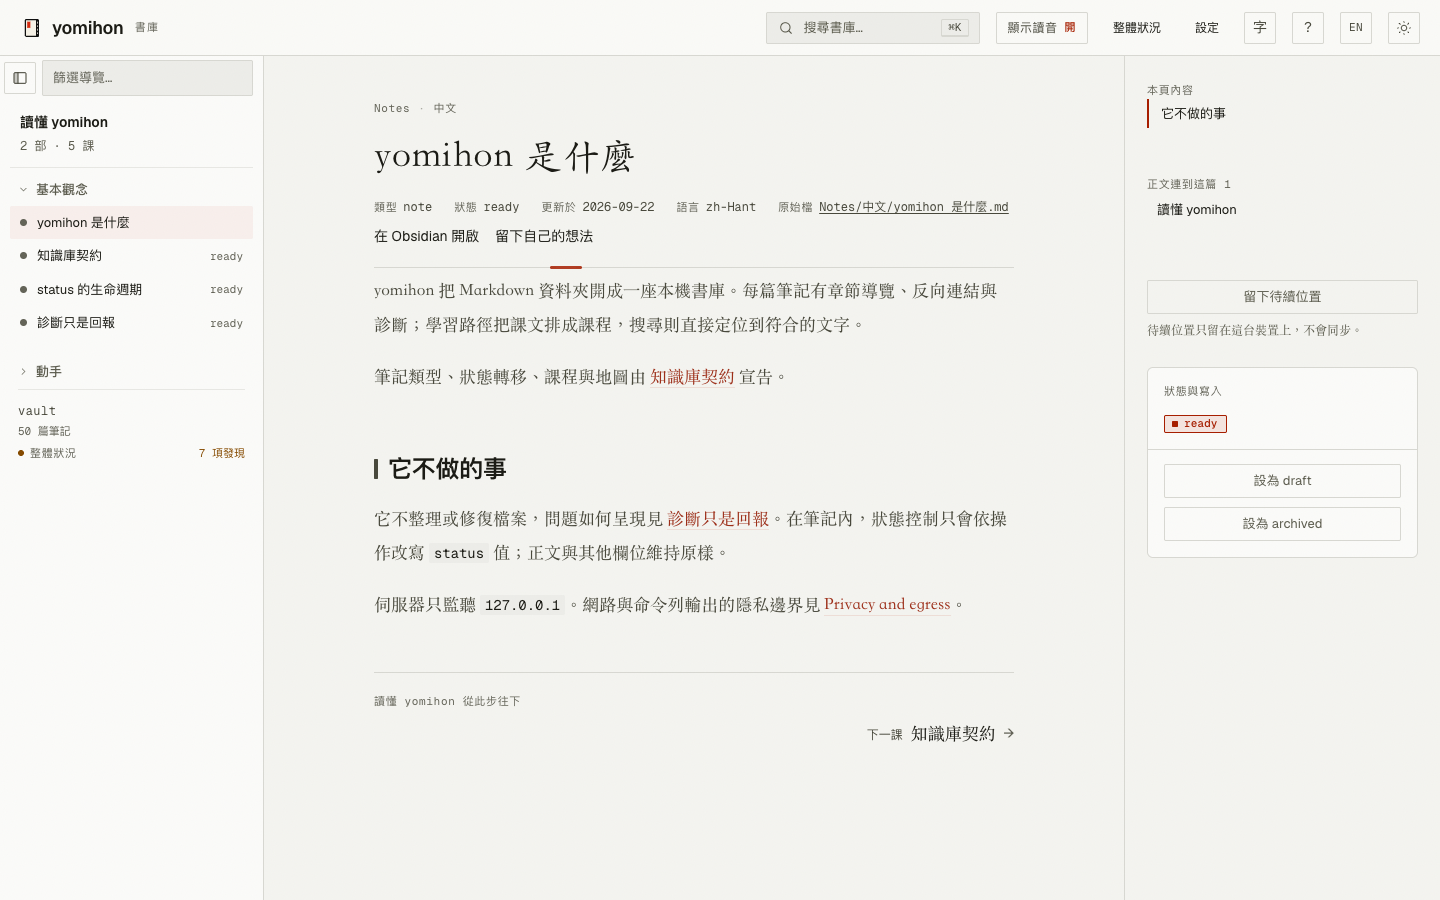
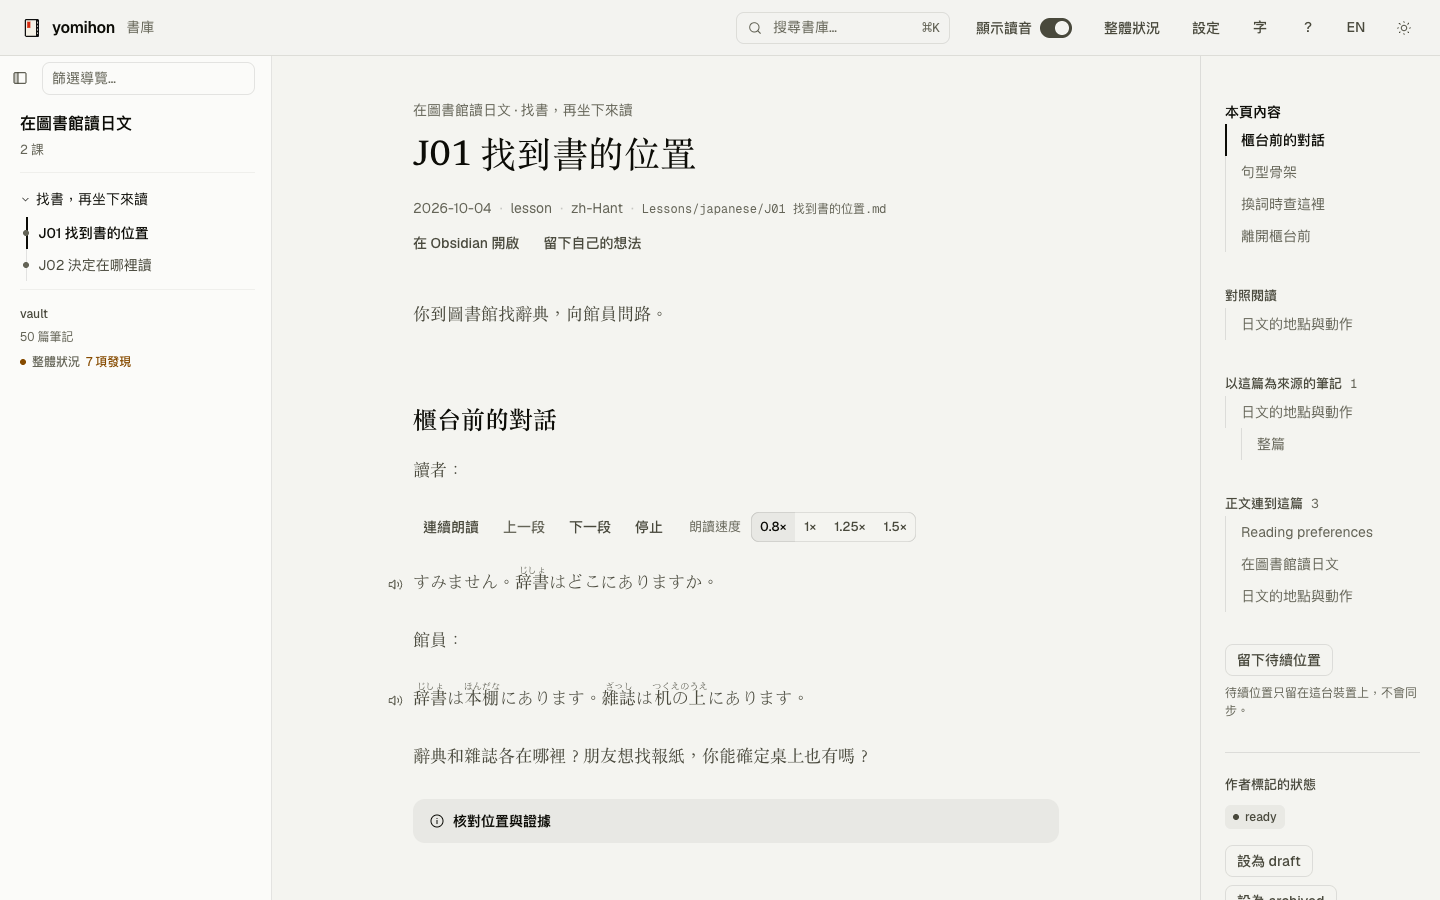
docs: bring both readmes and their pictures up to date with the redesign
Both READMEs now open with what the reader gets and name only capabilities
that exist on main: reading, courses with side branches, leave-off marks,
settings, search in three languages, reports and the health page. Claims the
code only supports in a narrower form were cut or narrowed (read-aloud is
Japanese lessons only, check needs a contract, search landing is dropped).

The two pictures are retaken with make screenshots and now show a lesson
inside a study path, so one screen carries the course rail, the running head
and the reading column. The Makefile target points at those two lessons; the
script and its language assertion are unchanged.

diff --git a/README.md b/README.md
@@ -6,37 +6,25 @@ English | [繁體中文](README.zh-TW.md)
 [![Go](https://img.shields.io/github/go-mod/go-version/koopa0/yomihon?style=flat)](go.mod)
 [![License: MIT](https://img.shields.io/badge/license-MIT-blue?style=flat)](LICENSE)
 
-**Turn the Markdown you have already organised into a book worth reading.**
+**yomihon turns the Markdown you have already organised into something good to read.**
 
-[![yomihon's reading page: the course and the current lesson on the left, the article in the centre, and on the right its sections and the notes that cite it](.github/media/reading-en.png)](.github/media/reading-en.png)
+[![A lesson in a study path: the course on the left with the current lesson marked, the lesson in the centre, and on the right the notes that cite it and a button to leave off here](.github/media/reading-en.png)](.github/media/reading-en.png)
 
-yomihon reads a folder of Markdown as one book. A study path is a course, with
-chapters and the lesson you are on; every note has its sections and the notes
-that cite it beside the text; whatever is broken is said where it is. It runs
-on your machine and changes none of your words.
+A study path is a course, with its parts and the lesson you are on. Search, backlinks and reports come with it. yomihon runs on your machine, makes no network requests and never edits your text.
 
 ## Try it
 
-[yomihon.koopa0.dev](https://yomihon.koopa0.dev) is this reader over `examples/vault`,
-the sample notes in this repository. Those notes are shared: a status you move
-is the one the next reader finds, and every hour they are restored from this
-repository. Your own vault never leaves your machine; that is what the install
-below is for.
+[yomihon.koopa0.dev](https://yomihon.koopa0.dev) runs the [example library](examples/README.md) from this repository. Visitors share one copy of the notes. It is restored every hour.
 
 ## Install
 
-[Download a binary](https://github.com/koopa0/yomihon/releases/latest) from the
-latest release, or, with Go 1.27 or newer:
+[Download a binary](https://github.com/koopa0/yomihon/releases/latest) from the latest release, or install with Go 1.27 or newer:
 
 ```sh
 go install github.com/koopa0/yomihon/cmd/yomihon@latest
 ```
 
-Reading works on macOS, Linux and Windows. Changing a note's status works on
-macOS and Linux; Windows refuses it.
-
-The example vault comes with the source, not the binary: take it from the
-release's source archive, or clone this repository.
+yomihon runs on macOS, Linux and Windows. The example library comes with the source, not the binary. Take it from the release's source archive or clone this repository.
 
 ## Use
 
@@ -44,46 +32,22 @@ release's source archive, or clone this repository.
 yomihon ~/notes
 ```
 
-Then open <http://127.0.0.1:9610>. Any folder works as it is;
-`yomihon examples/vault` opens an example vault with a contract, and shows what
-a contract adds. An agent that writes notes for a vault yomihon reads has a
-skill to read first: [`skills/`](skills/).
+Then open <http://127.0.0.1:9610>. yomihon reads any folder of Markdown as it is. Study paths, maps and `yomihon check` need a contract, `System/schemas/vault-schema.toml`. `yomihon examples/vault` opens a library that has one to copy. If an agent writes your notes, point it at [`skills/`](skills/) first.
 
 ## What it does
 
-- **Read.** Wikilinks, callouts, footnotes, tables, Mermaid, code and ruby
-  render as written. The page is set for long-form reading, Chinese and
-  Japanese first, with a light and a dark desk and three text sizes.
-- **Learn.** A study path is a course: chapter counts, previous and next, and
-  the lesson you are on. Furigana switches on and off; a passage marked for
-  reading aloud is spoken in its own language. The example vault carries
-  [a Go concurrency course in Traditional Chinese](examples/vault/Notes/Books/Go%20並行入門.md),
-  [two Japanese dialogue lessons](examples/vault/Notes/Books/在圖書館讀日文.md), and an
-  [English authoring companion](examples/vault/Notes/Reading%20yomihon.md).
-- **Find.** Full-text search with folder filters; backlinks and the note's own
-  sections stay beside the text. A result opens the note at the words it
-  found, not at the top.
-- **Check.** A health page lists links with no target, notes nothing cites, and
-  one name two files answer to; each note carries its own diagnostics; on the
-  command line it is `yomihon check`. It reports and repairs nothing.
-- **Reports.** Briefings kept under `System/reports/daily-briefing/` open in
-  the same room, sandboxed.
-- **Two languages.** The interface speaks English or Traditional Chinese; every
-  note keeps the language it was written in.
-- **Yours.** It binds to `127.0.0.1` only, makes no network call, and never
-  edits your prose. [What it keeps](docs/privacy/data-inventory.md), and
-  [what it does and does not defend](docs/security/threat-model.md).
+- **Read.** Wikilinks, callouts, footnotes, tables, Mermaid diagrams, code and ruby render as written. Settings offer light, dark or the system's appearance, three text sizes, and serif, sans serif or Kaiti type. "Leave off here" keeps your place on this device. The home page links back to it.
+- **Learn.** A study path is a course: parts, the lesson you are on, the lessons before and after it, and optional side branches. Furigana can be hidden. A Japanese passage the author marks in a lesson can be read aloud. The example library has [a Go concurrency course](examples/vault/Notes/Books/Go%20並行入門.md) and [two Japanese dialogue lessons](examples/vault/Notes/Books/在圖書館讀日文.md).
+- **Find.** Search works in English, Chinese and Japanese. A note shows its sections and the notes that cite it beside the text. A map lists the notes under one subject.
+- **Reports.** Daily briefings (HTML) and written reports (Markdown) under `System/reports/` are listed together. A briefing opens in a sandbox.
+- **Check.** The health page lists wikilinks that point at nothing and notes no other note links to. With a contract, `yomihon check` lists broken links and frontmatter problems in a terminal.
+
+The interface is available in English and Traditional Chinese. A note keeps the language it was written in.
 
 ## Status
 
-The [example library guide](examples/README.md) describes the books,
-the deliberate diagnostic examples and the features each reading task uses.
-
-Under development; expect the interface to change before the first stable
-release. Defects go to [Issues](https://github.com/koopa0/yomihon/issues),
-security problems to
-[GitHub's private advisory form](https://github.com/koopa0/yomihon/security/advisories/new).
+Under development; expect the interface to change before the first stable release. Defects go to [Issues](https://github.com/koopa0/yomihon/issues), security problems to [GitHub's private advisory form](https://github.com/koopa0/yomihon/security/advisories/new).
 
 ## Licence
 
-[MIT](LICENSE).
+yomihon is released under the [MIT licence](LICENSE).

diff --git a/README.zh-TW.md b/README.zh-TW.md
@@ -6,27 +6,25 @@
 [![Go 版本](https://img.shields.io/github/go-mod/go-version/koopa0/yomihon?style=flat)](go.mod)
 [![授權條款：MIT](https://img.shields.io/badge/license-MIT-blue?style=flat)](LICENSE)
 
-**把你整理好的 Markdown，變成一本好讀的書。**
+**yomihon 把你整理好的 Markdown，變成好讀的讀本。**
 
-[![yomihon 的閱讀頁：左欄是課程與目前的一課，中間是正文，右欄是本頁章節與引用它的筆記](.github/media/reading-zh-TW.png)](.github/media/reading-zh-TW.png)
+[![學習路徑裡的一課：左邊是課程與目前的一課，中間是帶振假名與朗讀鈕的正文，右邊是本頁章節、引用它的筆記，以及留下待續位置的按鈕](.github/media/reading-zh-TW.png)](.github/media/reading-zh-TW.png)
 
-yomihon 把一個 Markdown 資料夾讀成一本書。學習路徑是一門課，有章節，標出你在哪一課；每篇筆記旁邊放著它的章節，還有引用它的筆記；哪裡壞了，就在原處說明。它在你的機器上執行，不改你的任何一個字。
+學習路徑就是一門課，分成幾部，也標出你讀到哪一課。搜尋、反向連結與報告一併附上。yomihon 在你的機器上執行，不發任何網路請求，也不改你的文字。
 
 ## 線上試讀
 
-[yomihon.koopa0.dev](https://yomihon.koopa0.dev) 就是這個 reader 在讀 `examples/vault`，也就是本 repo 附的範例筆記。那些筆記是共用的：你改了哪一篇的狀態，下一位讀者就會看到；每個小時會從本 repo 還原一次。你自己的筆記不會離開你的機器——那是下面這段安裝的用途。
+[yomihon.koopa0.dev](https://yomihon.koopa0.dev) 開著本 repo 的[範例知識庫](examples/README.zh-TW.md)。所有訪客共用同一份筆記。每小時還原一次。
 
 ## 安裝
 
-從最新版本[下載執行檔](https://github.com/koopa0/yomihon/releases/latest)，或者，已有 Go 1.27 以上：
+從最新版本[下載執行檔](https://github.com/koopa0/yomihon/releases/latest)，或在已有 Go 1.27 以上時安裝：
 
 ```sh
 go install github.com/koopa0/yomihon/cmd/yomihon@latest
 ```
 
-閱讀在 macOS、Linux 與 Windows 都能用。更改筆記的狀態在 macOS 與 Linux 可用，Windows 會拒絕。
-
-範例知識庫附在原始碼裡，不在執行檔中：請從該版本的原始碼壓縮檔取得，或 clone 本 repo。
+yomihon 可在 macOS、Linux 與 Windows 上執行。範例知識庫附在原始碼裡，不在執行檔中。請從該版本的原始碼壓縮檔取得，或 clone 本 repo。
 
 ## 使用
 
@@ -34,24 +32,22 @@ go install github.com/koopa0/yomihon/cmd/yomihon@latest
 yomihon ~/notes
 ```
 
-接著開啟 <http://127.0.0.1:9610>。任何資料夾都能直接讀；`yomihon examples/vault` 是一個帶契約的範例知識庫，可以看見契約多給了什麼。替 yomihon 讀的知識庫寫筆記的 agent，先讀這份 skill：[`skills/`](skills/)。
+接著開啟 <http://127.0.0.1:9610>。任何 Markdown 資料夾都能直接讀。學習路徑、地圖與 `yomihon check` 需要契約 `System/schemas/vault-schema.toml`。`yomihon examples/vault` 開啟的知識庫附有一份，可以照著改。如果由 agent 替你寫筆記，請先讓它讀 [`skills/`](skills/)。
 
 ## 它做什麼
 
-- **讀。** wikilink、callout、註腳、表格、Mermaid、程式碼、ruby，照作者寫的呈現。版面為長篇閱讀而設，中日文優先；亮暗兩種桌面，三段字級。
-- **學。** 學習路徑是一門課：課數、上一課與下一課、你在哪一課。振假名可開可關；標了朗讀的段落，用它自己的語言唸。範例知識庫的[《Go 並行入門》](examples/vault/Notes/Books/Go%20並行入門.md)用五課講解 goroutine、channel、取消與 worker pool，另有[兩課日文短對話](examples/vault/Notes/Books/在圖書館讀日文.md)及[繁中使用手冊](examples/vault/Notes/中文/讀懂%20yomihon.md)。
-- **找。** 全文搜尋，可按資料夾篩選；反向連結與本頁章節就在正文旁邊。點一筆結果，筆記開在找到的那句話上，不是從頭開始。
-- **檢查。** 整體狀況頁列出沒有目標的連結、沒有人引用的筆記、兩個檔案共用的名字；每篇筆記帶著自己的診斷；命令列是 `yomihon check`。它只回報，不替你修。
-- **報告。** 放在 `System/reports/daily-briefing/` 的簡報，在同一個閱讀室裡隔離打開。
-- **兩種語言。** 介面有英文與繁體中文；筆記保留寫下時的語言。
-- **你的。** 只綁 `127.0.0.1`，不發任何網路請求，不動你的文字。[它留下什麼](docs/privacy/data-inventory.md)，以及[它守住什麼、守不住什麼](docs/security/threat-model.md)。
+- **讀。** wikilink、callout、註腳、表格、Mermaid 圖、程式碼與 ruby，照作者寫的呈現。設定頁可選亮色、暗色或跟隨系統，三段字級，明體、黑體或楷體。「留下待續位置」把你讀到的地方記在這台裝置上。首頁會列出這個位置，點一下就能回去。
+- **學。** 學習路徑是一門課：分成幾部，標出你讀到的這一課，列出前後各一課，還有選讀的支線。振假名可以隱藏。課文裡作者標了朗讀的日文段落，可以唸出來。範例知識庫有一門[《Go 並行入門》](examples/vault/Notes/Books/Go%20並行入門.md)，另有[兩課日文短對話](examples/vault/Notes/Books/在圖書館讀日文.md)。
+- **找。** 搜尋支援中文、日文與英文。每篇筆記旁邊放著本頁章節與引用它的筆記。地圖列出同一主題底下的筆記。
+- **報告。** 放在 `System/reports/` 的每日簡報（HTML）與文字報告（Markdown）列在一起。簡報在沙盒裡開啟。
+- **檢查。** 整體狀況頁列出指向不存在目標的 wikilink，以及沒有其他筆記連過來的筆記。有契約時，`yomihon check` 在終端機列出失效連結與 frontmatter 問題。
+
+介面有英文與繁體中文。筆記保留寫下時的語言。
 
 ## 目前狀態
-
-[範例書庫導讀](examples/README.zh-TW.md)整理了各本書、刻意保留的診斷案例，以及每個閱讀任務用到的功能。
 
 開發中；第一個穩定版之前，介面還會變。缺陷請開 [Issues](https://github.com/koopa0/yomihon/issues)，安全性問題請走 [GitHub 私密漏洞回報](https://github.com/koopa0/yomihon/security/advisories/new)。
 
 ## 授權
 
-[MIT](LICENSE)。
+yomihon 以 [MIT](LICENSE) 授權釋出。
